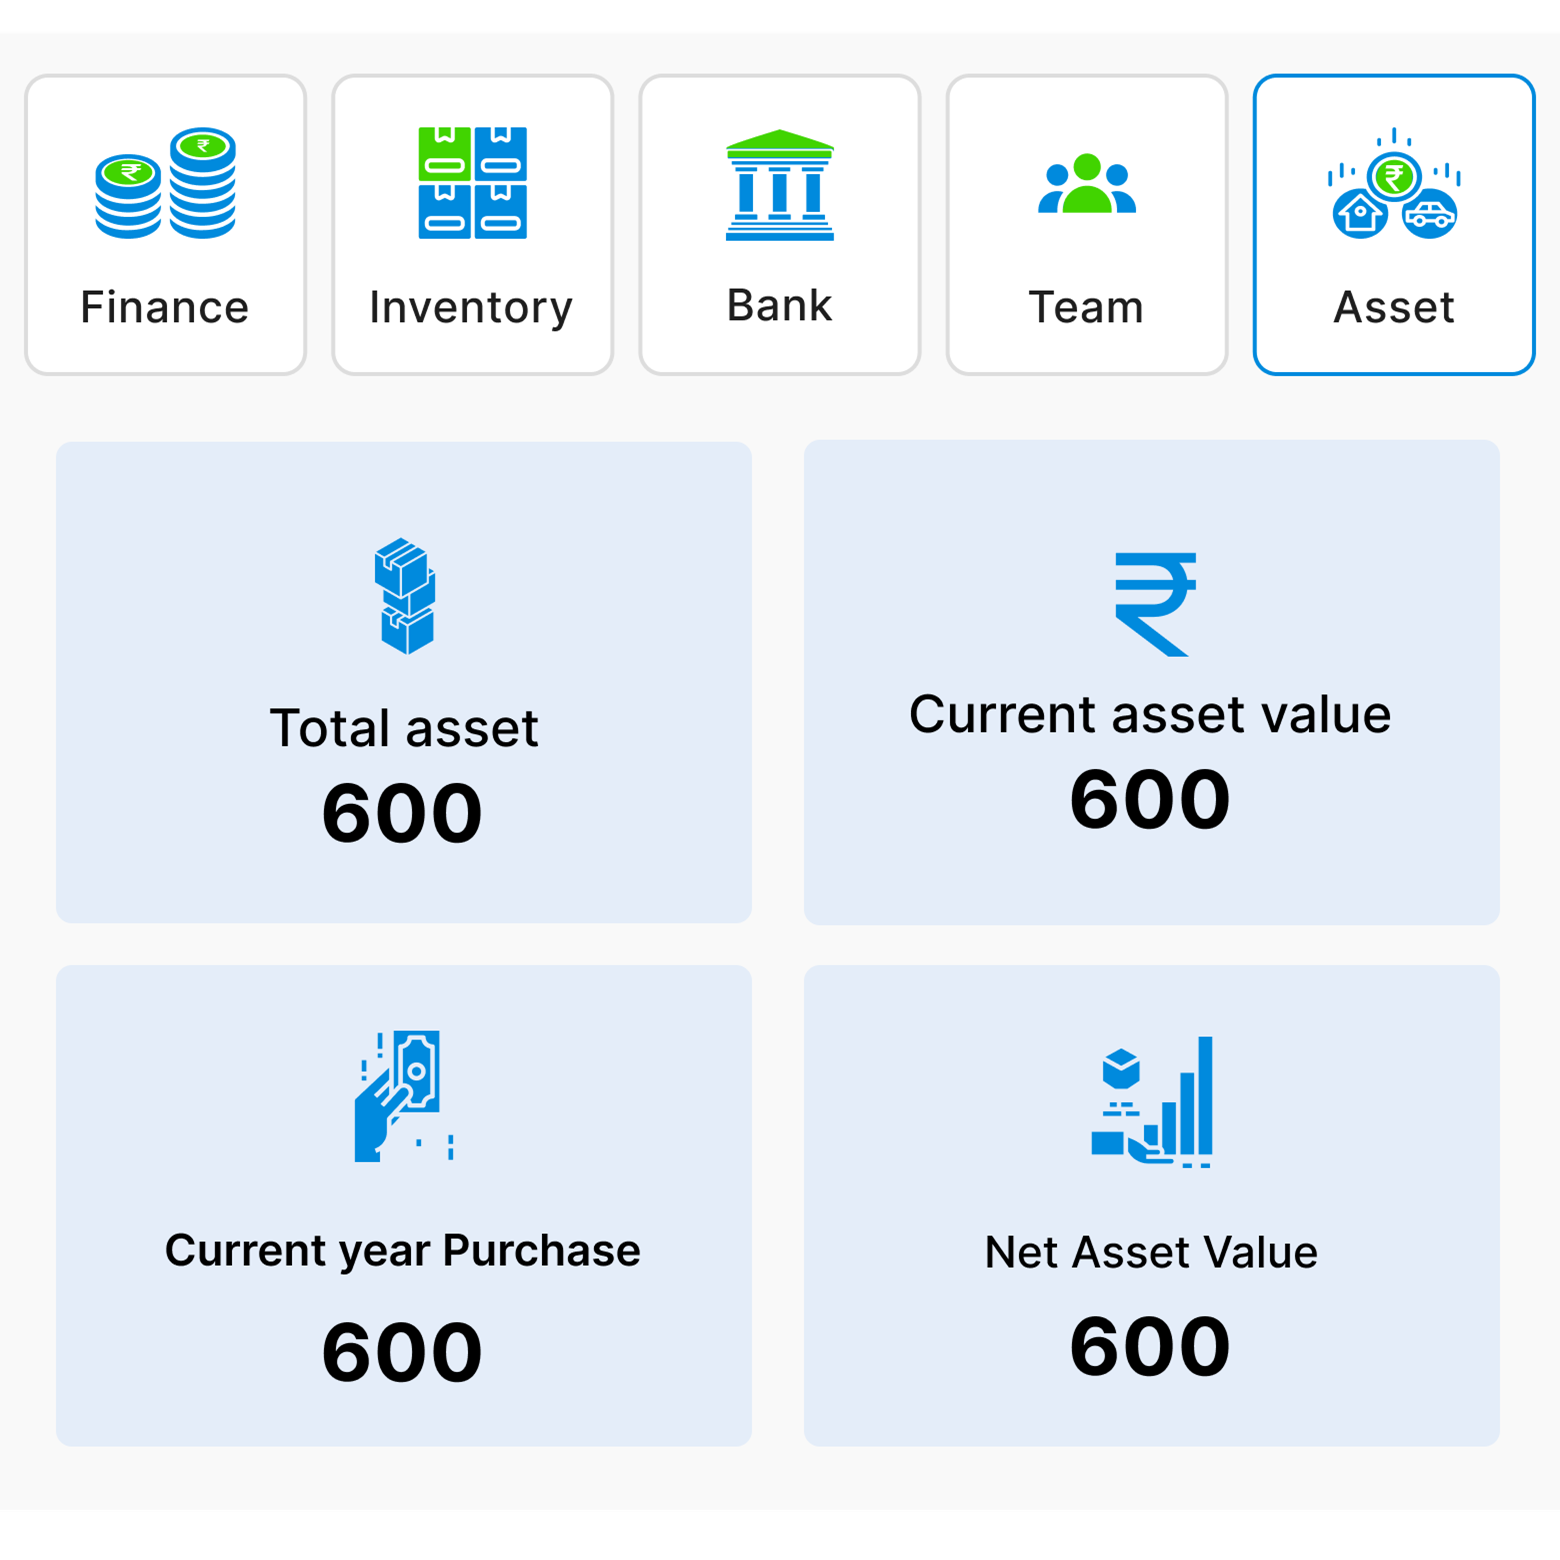
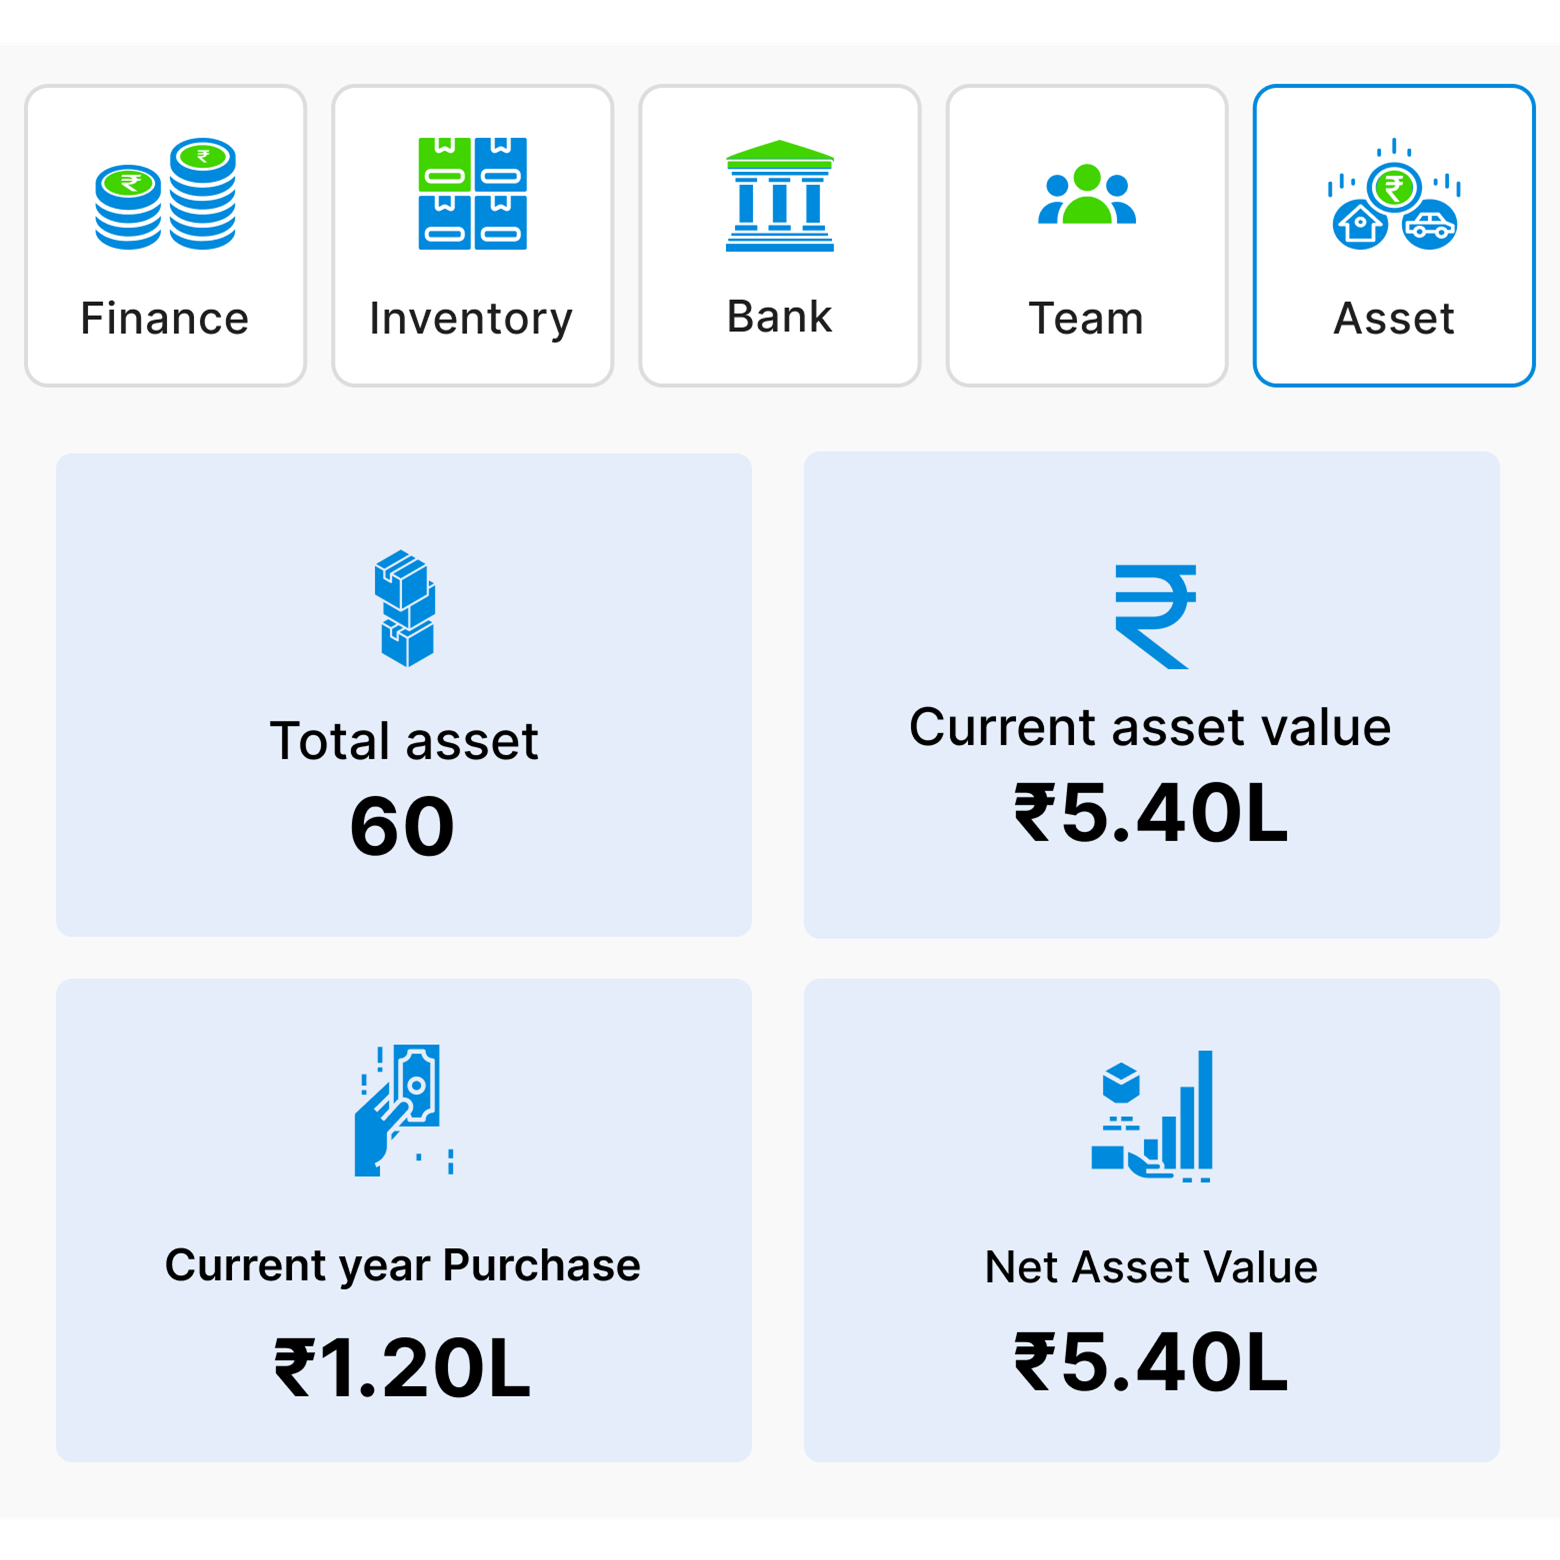
fix

diff --git a/app/components/Home-latest/Modules.tsx b/app/components/Home-latest/Modules.tsx
@@ -22,7 +22,7 @@ const modules = [
 			"Allocation & utilization reports",
 			"Depreciation management",
 		],
-		image: "/landing-page/asset.png",
+		image: "/landing-page/asset-img.png",
 		href: "/asset-management",
 	},
 

diff --git a/app/components/Home-v2/ModulesOld.tsx b/app/components/Home-v2/ModulesOld.tsx
@@ -65,7 +65,7 @@ const features: FeatureBlock[] = [
 		],
 		color: "#22c55e",
 		reversed: true,
-		image: "/landing-page/asset.png",
+		image: "/landing-page/asset-img.png",
 	},
 	{
 		label: "Inventory",
